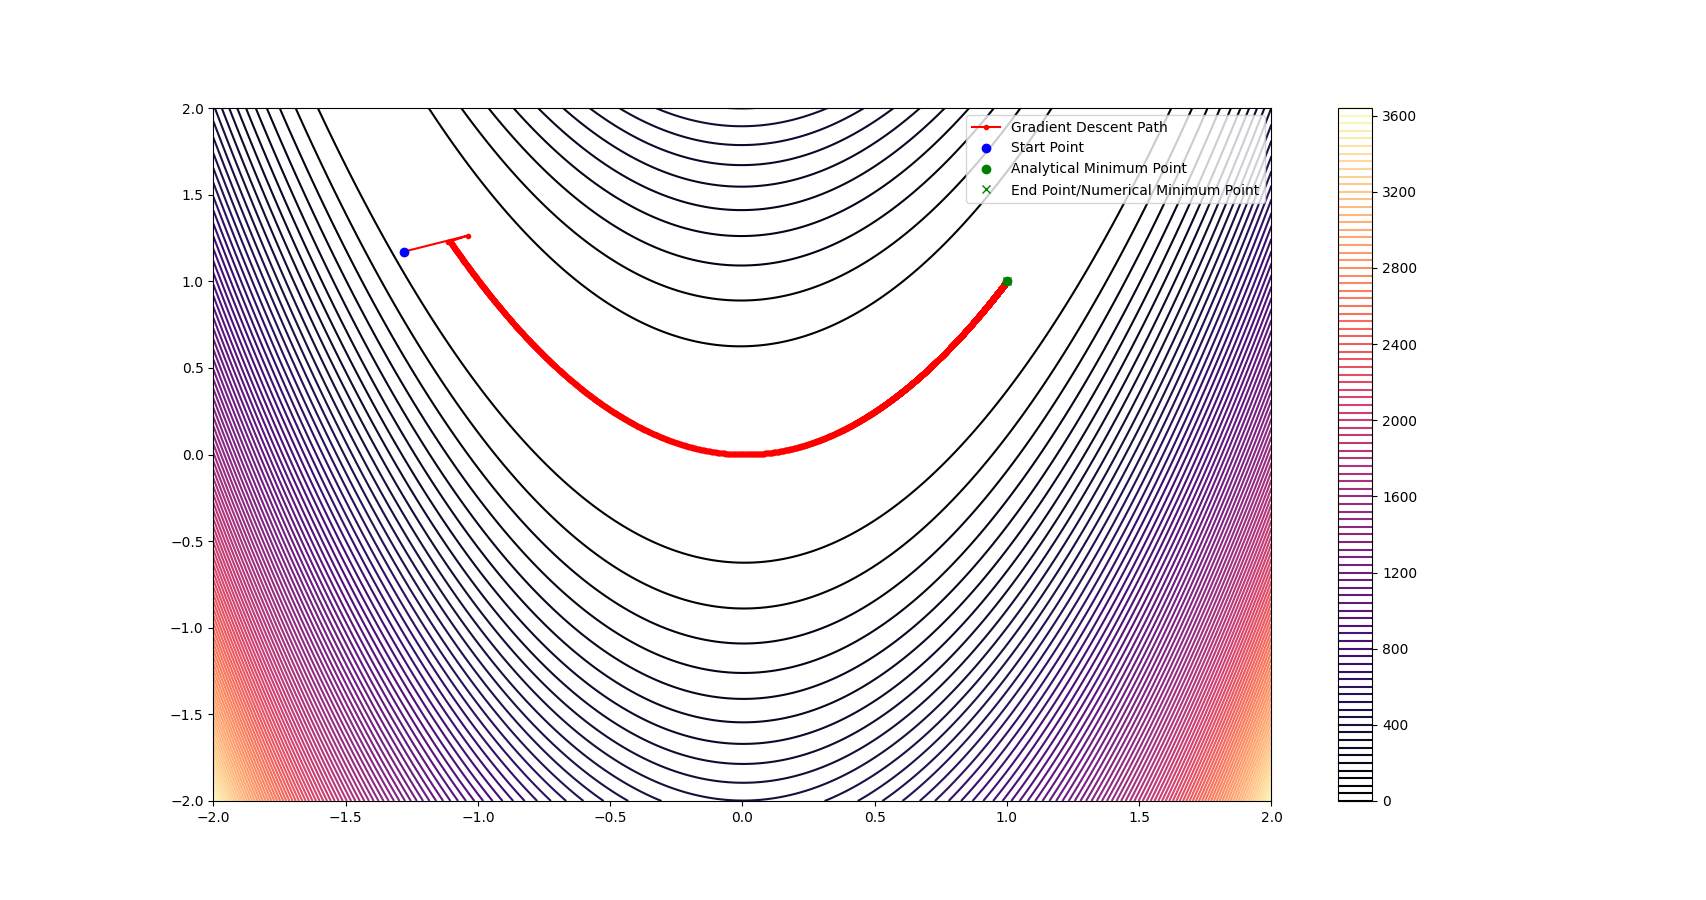
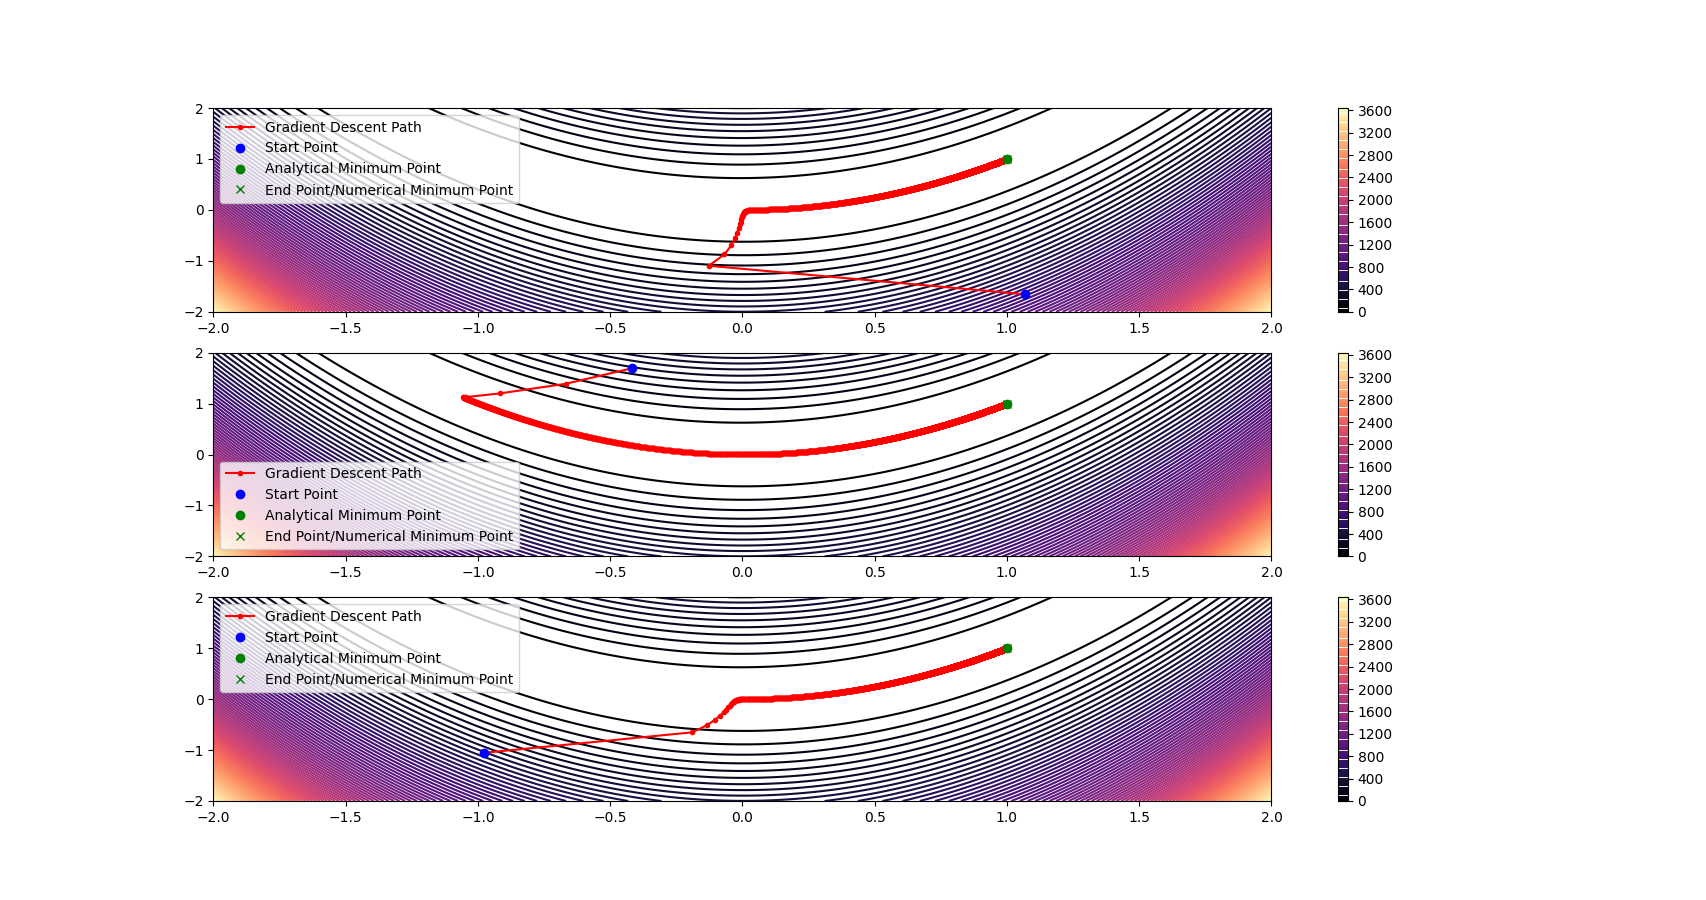
Added support for three different random start points

Changed region(s): [[0.0932, 0.1244, 0.7456, 0.9022], [0.7767, 0.1244, 0.8388, 0.9022]]

diff --git a/task2.py b/task2.py
@@ -14,10 +14,14 @@ f = 100*(y-x**2)**2 + (1-x)**2
 
 # plt.show()
 
-# Create a 2D contour plot
-fig2, ax2 = plt.subplots()           # 2D axes (not projection='3d')
-contour = ax2.contour(x, y, f, 100, cmap='magma')
-fig2.colorbar(contour)
+# Create 2D contour plots
+fig2, ax2 = plt.subplots(3, 1)           # 2D axes (not projection='3d')
+contour1 = ax2[0].contour(x, y, f, 100, cmap='magma')
+contour2 = ax2[1].contour(x, y, f, 100, cmap='magma')
+contour3 = ax2[2].contour(x, y, f, 100, cmap='magma')
+fig2.colorbar(contour1)
+fig2.colorbar(contour2)
+fig2.colorbar(contour3)
 
 # GRADIENT DESCENT START
 # Calculate gradient of the Rosenbrock function at a given point
@@ -75,20 +79,39 @@ def gauss_newton_method(start, n_iterations):
 
 
 # Parameters for gradient descent
-start_point = (-np.random.uniform(-2, 2), -np.random.uniform(-2, 2))
+start_point1 = (-np.random.uniform(-2, 2), -np.random.uniform(-2, 2))
+start_point2 = (-np.random.uniform(-2, 2), -np.random.uniform(-2, 2))
+start_point3 = (-np.random.uniform(-2, 2), -np.random.uniform(-2, 2))
 learning_rate = 0.001
 iterations = 20000
 
 # Choose gradient descent, Newton's method, or Gauss-Newton method
-# path = gradient_descent(start_point, learning_rate, iterations)
-# path = newtons_method(start_point, 20)
-path = gauss_newton_method(start_point, 20)
+path1 = gradient_descent(start_point1, learning_rate, iterations)
+path2 = gradient_descent(start_point2, learning_rate, iterations)
+path3 = gradient_descent(start_point3, learning_rate, iterations)
+# path1 = newtons_method(start_point1, 20)
+# path2 = newtons_method(start_point2, 20)
+# path3 = newtons_method(start_point3, 20)
+# path1 = gauss_newton_method(start_point1, 20)
+# path2 = gauss_newton_method(start_point2, 20)
+# path3 = gauss_newton_method(start_point3, 20)
 
 # Plot the path on the above contour plot
-ax2.plot(path[:,0], path[:,1], 'r.-')  # Plot the path in red
-ax2.plot(start_point[0], start_point[1], 'bo')  # Starting point in blue
-ax2.plot(1, 1, 'go')  # Analytical minimum point in green dot
-ax2.plot(path[-1,0], path[-1,1], 'gx')  # Ending point in green cross
-plt.legend(['Gradient Descent Path', 'Start Point', 'Analytical Minimum Point', 'End Point/Numerical Minimum Point'])
+ax2[0].plot(path1[:,0], path1[:,1], 'r.-')  # Plot the path in red
+ax2[0].plot(start_point1[0], start_point1[1], 'bo')  # Starting point in blue
+ax2[0].plot(1, 1, 'go')  # Analytical minimum point in green dot
+ax2[0].plot(path1[-1,0], path1[-1,1], 'gx')  # Ending point in green cross
+ax2[0].legend(['Gradient Descent Path', 'Start Point', 'Analytical Minimum Point', 'End Point/Numerical Minimum Point'])
+ax2[1].plot(path2[:,0], path2[:,1], 'r.-')  # Plot the path in red
+ax2[1].plot(start_point2[0], start_point2[1], 'bo')  # Starting point in blue
+ax2[1].plot(1, 1, 'go')  # Analytical minimum point in green dot
+ax2[1].plot(path2[-1,0], path2[-1,1], 'gx')  # Ending point in green cross
+ax2[1].legend(['Gradient Descent Path', 'Start Point', 'Analytical Minimum Point', 'End Point/Numerical Minimum Point'])
+ax2[2].plot(path3[:,0], path3[:,1], 'r.-')  # Plot the path in red
+ax2[2].plot(start_point3[0], start_point3[1], 'bo')  # Starting point in blue
+ax2[2].plot(1, 1, 'go')  # Analytical minimum point in green dot
+ax2[2].plot(path3[-1,0], path3[-1,1], 'gx')  # Ending point in green cross
+ax2[2].legend(['Gradient Descent Path', 'Start Point', 'Analytical Minimum Point', 'End Point/Numerical Minimum Point'])
+
 plt.show()
 
